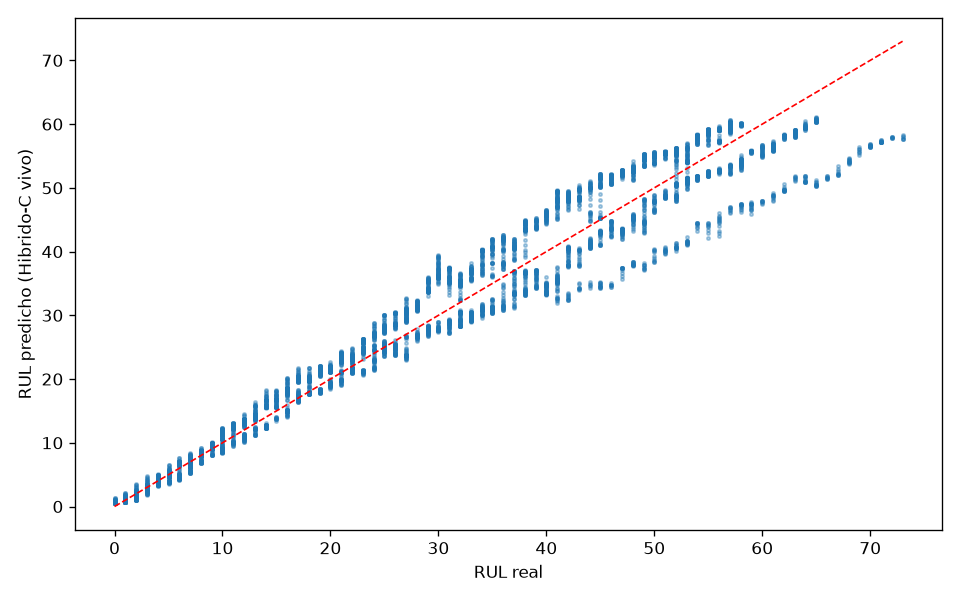
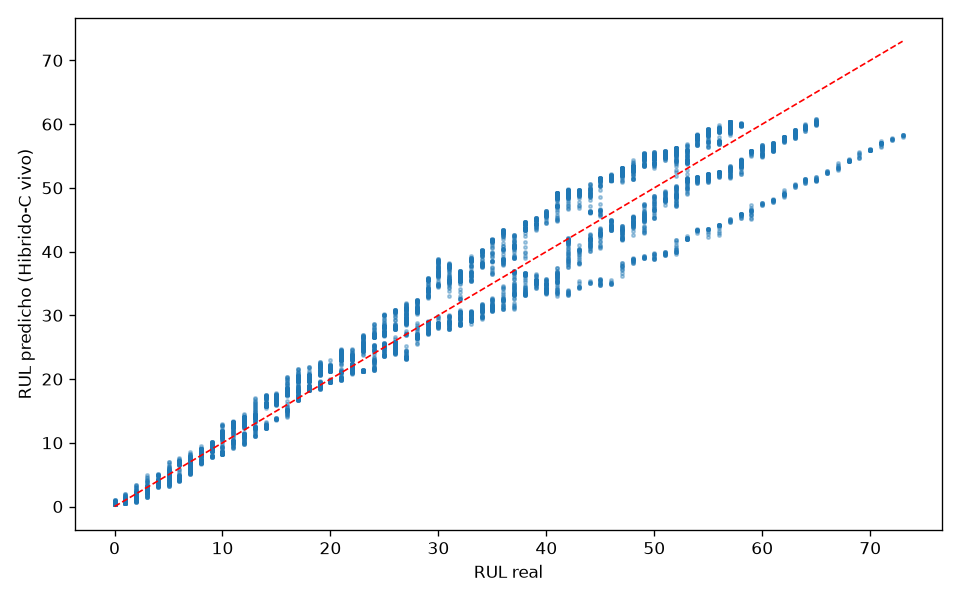
docs(readme): 4 imagenes inline (real vs predicho, rmse por motor, SHAP, compare MLflow) y docs/assets sincronizado con resultados

diff --git a/README.md b/README.md
@@ -174,6 +174,10 @@ tabulares residualizadas. El meta-learner solo ve `[p_lstm, p_lgb]` (2 columnas)
 Fuente: `models/ds02_manifest.json` (`metrics.reference_row`). No es una media
 multisemilla: es la fila del artefacto congelado que sirve la app.
 
+![RUL real frente a RUL predicho por el bundle C, con la recta y=x de referencia](docs/assets/real_vs_predicho_bundle_c.png)
+
+El gráfico es la misma fila congelada del manifiesto, no una reejecución.
+
 **Por motor (el global esconde el reparto):**
 
 | Unidad | RMSE | Ventanas |
@@ -186,6 +190,8 @@ multisemilla: es la fila del artefacto congelado que sirve la app.
 
 U14 concentra el error: pesa poco en el global pero es el peor caso real. Por eso
 se publican global y macro, y la tabla final separa granos.
+
+![RMSE del bundle C por motor en test, con el n de ventanas](docs/assets/bundle_c_rmse_por_motor.png)
 
 ### Estabilidad multisemilla
 
@@ -294,8 +300,9 @@ rúbrica, `app/entrypoints/streamlit_app.py`, solo delega en ella.
 - SHAP explica el componente tabular (LightGBM, 93 features), **no** el BiLSTM ni
   el stacking; describe el modelo, no el motor.
 
-Evidencia: [`docs/assets/shap_importancia.png`](docs/assets/shap_importancia.png),
-`resultados/shap_bundle_C/` y `resultados/mlp_shap_E2/`.
+![Importancia global de features (SHAP, mean |SHAP|)](docs/assets/shap_importancia.png)
+
+Evidencia completa en `resultados/shap_bundle_C/` y `resultados/mlp_shap_E2/`.
 
 ## MLflow
 
@@ -325,6 +332,8 @@ del store es una invariante ejecutable, no una promesa del README.
 Los granos no se mezclan: el RMSE de fila y el de ventana no miden lo mismo, y el
 store lo declara con el tag `grano`. La ablación se aísla con
 `familia=ablacion_cycnorm`.
+
+![Vista Compare de MLflow con los nueve modelos de grano fila](docs/evidencia/mlflow/compare_fila.png)
 
 ### La ablación se compara dentro de MLflow
 
